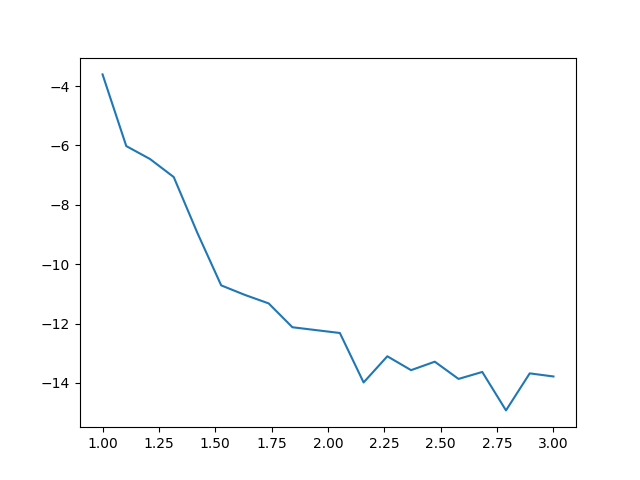
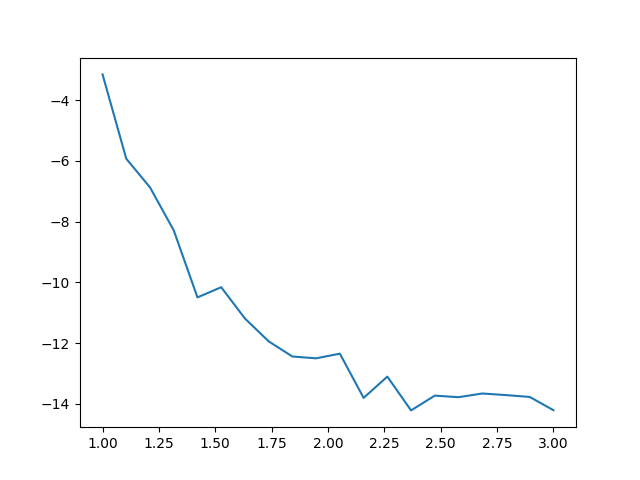
results

diff --git a/ELU H2+ save.py b/ELU H2+ save.py
@@ -205,7 +205,7 @@ E_min=[]
 Psi_min=[]
 Rs = np.linspace(1,3,20)
 for R in Rs:
-	psi,e = fit(batch_size=128,steps=10000,epochs=10,losses=["energy","symmetry"],R1=R/2,R2=-R/2)
+	psi,e = fit(batch_size=256,steps=20000,epochs=18,losses=["energy","symmetry","energy","symmetry","energy","symmetry","energy","symmetry","energy","energy","energy","energy","energy","energy","energy","energy","energy"],R1=R/2,R2=-R/2)
 	E_min.append(e)
 	Psi_min.append(psi)
 
